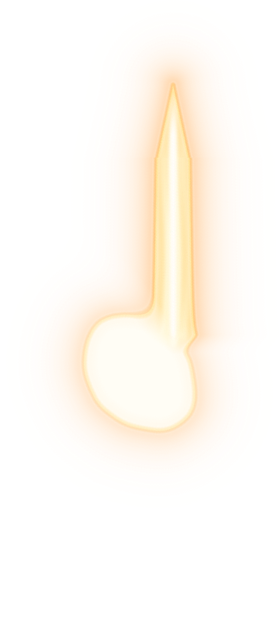
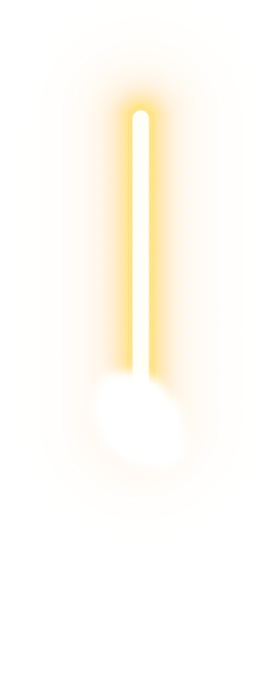
vfx-lab: Thần Thức Trảm — kiếm laser phóng từ giữa nắm tay song song trục cẳng tay; sửa điểm xoay tay bên trái (lật ảnh)
Claude-Session: https://claude.ai/code/session_014A94BHnyL4tu48AS77QbVM

Changed region(s): [[0.2319, 0.0895, 0.7826, 0.7159]]

diff --git a/src/vfx/skillFx.ts b/src/vfx/skillFx.ts
@@ -950,8 +950,9 @@ const nguyenAnh: Fx = (s, aw) => {
  *  (ảnh riêng cùng khung) — dựng đứng, mũi luồng khí ở trên */
 export const QI_ARM = 'vx_qi_arm';
 export const QI_AURA = 'vx_qi_aura';
-const QI_ARM_PIVOT: [number, number] = [0.617, 0.954];                    // khuỷu tay (điểm xoay khi chém)
-const QI_ARM_REACH = 523;                                                  // khuỷu → mũi lưỡi kiếm khí (px ảnh)
+const QI_ARM_PIVOT: [number, number] = [0.626, 0.957];                    // khuỷu tay (điểm xoay khi chém)
+const QI_ARM_REACH = 539;                                                  // khuỷu → mũi kiếm laser (px ảnh)
+const QI_ARM_TIP_OFF = -0.0607;                                           // mũi kiếm lệch so với phương đứng qua khuỷu (rad)
 
 /**
  * THẦN THỨC TRẢM — thần thức hoá thành TAY KHÍ, nắm tay bọc LUỒNG KIẾM KHÍ vuốt nhọn thành lưỡi: hiện ra trên đầu
@@ -976,10 +977,10 @@ const thanThuc: Fx = (s, aw) => {
     const cand = pool.filter((t) => Math.sign(t.x - hero.x || side) === side);
     const t = cand[Math.floor(i / 2)] ?? pool[i % Math.max(1, pool.length)];
     const h0 = home();
-    const arm = sc.add.image(h0.x, h0.y, QI_ARM).setOrigin(QI_ARM_PIVOT[0], QI_ARM_PIVOT[1]).setDepth(21)
+    const arm = sc.add.image(h0.x, h0.y, QI_ARM).setOrigin(side < 0 ? 1 - QI_ARM_PIVOT[0] : QI_ARM_PIVOT[0], QI_ARM_PIVOT[1]).setDepth(21)
       .setScale(SC * 0.5).setAlpha(0).setRotation(tilt).setFlipX(side < 0);
     // luồng kiếm khí: chồng khít lên tay (cộng sáng), chớp nháy + phập phồng như lửa
-    const aura = sc.add.image(h0.x, h0.y, QI_AURA).setOrigin(QI_ARM_PIVOT[0], QI_ARM_PIVOT[1]).setDepth(21.1)
+    const aura = sc.add.image(h0.x, h0.y, QI_AURA).setOrigin(side < 0 ? 1 - QI_ARM_PIVOT[0] : QI_ARM_PIVOT[0], QI_ARM_PIVOT[1]).setDepth(21.1)
       .setBlendMode(Phaser.BlendModes.ADD).setFlipX(side < 0).setAlpha(0);
     const ph = Math.random() * 10;
     const follow = (time: number) => {
@@ -1012,7 +1013,7 @@ const thanThuc: Fx = (s, aw) => {
         const draw = (fade: number) => {
           // vệt chém: MỘT dải trăng khuyết liền (không chia khúc) bám mũi kiếm — mép ngoài sắc, đuôi thon nhọn dần
           g.clear();
-          const a1 = st.r - Math.PI / 2, span = Math.max(0, (st.r - rRaise) * sd) * 0.75, n = 24;
+          const a1 = st.r - Math.PI / 2 + QI_ARM_TIP_OFF * side, span = Math.max(0, (st.r - rRaise) * sd) * 0.75, n = 24;
           if (span < 0.05) return;
           const R = SWORD * 1.02;
           const outer: Phaser.Types.Math.Vector2Like[] = [], inner: Phaser.Types.Math.Vector2Like[] = [];

diff --git a/src/vfxlab/main.ts b/src/vfxlab/main.ts
@@ -39,8 +39,8 @@ class LabScene extends Phaser.Scene {
     for (const [key, f] of [[SHOCK_T3, 'shock_t3'], [SHOCK_T6, 'shock_t6']]) this.load.spritesheet(key, `/vfx/${f}.png?v=1`, { frameWidth: 256, frameHeight: 159 });
     for (const [n, key] of Object.entries(DRAGON_TEX)) for (const sf of ['', '_aw']) this.load.image(key + sf, `/vfx/dragon_${n}${sf}.png?v=4`);
     this.load.image(ORB_BOLT, '/vfx/orb_bolt.png?v=1');
-    this.load.image(QI_ARM, '/vfx/qi_arm.png?v=6');
-    this.load.image(QI_AURA, '/vfx/qi_aura.png?v=5');
+    this.load.image(QI_ARM, '/vfx/qi_arm.png?v=7');
+    this.load.image(QI_AURA, '/vfx/qi_aura.png?v=6');
     this.load.spritesheet(SPIRIT_ORB, '/vfx/spirit_orb.png?v=1', { frameWidth: 96, frameHeight: 96 });
     for (const [n, key] of Object.entries(BURN_TEX)) this.load.spritesheet(key, `/vfx/burn_${n}.png?v=2`, { frameWidth: 256, frameHeight: 201 });
     for (const [n, key] of Object.entries(BURN_TEX)) this.load.spritesheet(key + '_blue', `/vfx/burn_${n}_blue.png?v=1`, { frameWidth: 256, frameHeight: 201 });

diff --git a/tools/art/qi_arm.py b/tools/art/qi_arm.py
@@ -5,9 +5,8 @@ có vòng xuyến) + LƯỠI KIẾM NĂNG LƯỢNG bọc nắm tay, nối dài t
   1) cắt cánh tay trên-phải (nắm đấm + vòng xuyến + cẳng tay) bằng đường viền tay vẽ theo ảnh mẫu; phần dưới khuỷu
      (cánh tay trên) mờ dần → tay khí hiện ra từ hư không
   2) quầng sáng vàng mềm quanh tay (thay quầng đỏ của nền mẫu)
-  3) KIẾM KHÍ BAO BỌC BÀN TAY: lớp khí mỏng ôm sát đường viền nắm đấm (viền sáng, trong để thấy tay), từ mép trên
-     bàn tay mọc ra một lưỡi kiếm thẳng nằm đúng trên trục cẳng tay. Dựng bằng hàm khoảng cách → mép sắc, cân đối.
-     Lớp vẽ: quầng ngoài · thân vàng · viền sáng mảnh · sống kiếm trắng · vân khí chạy dọc
+  3) KIẾM LASER: luồng sáng thẳng đều, mũi tròn, phóng ra từ GIỮA nắm tay song song trục cẳng tay; đoạn trong nắm tay
+     bị tay che (như nắm chuôi). Lõi trắng · thân vàng nhạt · quầng vàng cam.
   4) xoay cả hình cho trục cẳng tay DỰNG ĐỨNG; điểm xoay khi chém = khuỷu tay
   → public/vfx/qi_arm.png, qi_aura.png  (cùng khung để game chồng khít; lớp khí chớp nháy riêng)
 
@@ -32,8 +31,8 @@ ARM = [(22, 21), (30, 17), (40, 17), (50, 23), (55, 32), (57, 37), (66, 38), (76
 ELBOW = (75, 102)                        # khuỷu tay
 FIST_C = (53.6, 41.4)                    # cổ tay (điểm bạn đánh dấu) — trục cẳng tay: khuỷu → điểm này
 FIST = [(22, 21), (30, 17), (40, 17), (50, 23), (55, 32), (57, 38), (52, 45), (40, 47), (30, 44), (23, 36), (21, 28)]  # bàn tay (nắm đấm)
-BLADE_U0 = 21                            # chân lưỡi: khoảng cách (dọc trục, từ FIST_C) tới mép trên nắm đấm
-BLADE_L = 110                            # FIST_C → mũi lưỡi
+FIST_CTR = (38.5, 31)                    # giữa nắm tay (chỗ chuôi kiếm laser)
+BLADE_L = 100                            # giữa nắm tay → mũi lưỡi
 TIP = (FIST_C[0] + (FIST_C[0] - ELBOW[0]) / 64.27 * BLADE_L, FIST_C[1] + (FIST_C[1] - ELBOW[1]) / 64.27 * BLADE_L)  # mũi (trên trục kéo dài)
 
 
@@ -76,52 +75,34 @@ def main():
     armF = Image.fromarray(g.astype(np.uint8), 'RGBA')
     armF.alpha_composite(canvas)
 
-    # --- LƯỠI KIẾM NĂNG LƯỢNG theo trục cẳng tay
+    # --- KIẾM LASER: luồng sáng thẳng, đều, mũi tròn, phóng ra từ GIỮA nắm tay song song trục cẳng tay.
+    #     Lõi trắng đặc · viền vàng · quầng vàng cam toả rộng. Đoạn nằm trong nắm tay bị tay che (ẩn) → như đang nắm chuôi.
     SS = 3                                                                   # siêu mẫu chống răng cưa
     Y, X = np.mgrid[0:CH * SS, 0:CW * SS].astype(float) / SS
-    fcx, fcy = C(*FIST_C)
-    u = (X - fcx) * ux + (Y - fcy) * uy                                      # dọc trục từ tâm nắm đấm, + lên mũi
+    fcx, fcy = C(*FIST_CTR)
+    u = (X - fcx) * ux + (Y - fcy) * uy                                      # dọc trục từ giữa nắm tay, + lên mũi
     v = (X - fcx) * nx + (Y - fcy) * ny                                      # ngang trục
-    L = BLADE_L * UP                                                         # tâm cổ tay → mũi
-    # (a) VỎ KIẾM KHÍ ôm sát bàn tay: khoảng cách tới mặt nạ nắm đấm (bo tròn góc), nở ra 3px
+    L = BLADE_L * UP                                                         # giữa nắm tay → mũi
+    R = 5 * UP                                                               # bán kính lưỡi (lõi + viền)
+    d = np.hypot(v, u - np.clip(u, 0, L)) - R                                # khoảng cách tới thân lưỡi (đầu tròn)
     fmask = Image.new('L', (CW * SS, CH * SS), 0)
     ImageDraw.Draw(fmask).polygon([(C(x, y)[0] * SS, C(x, y)[1] * SS) for x, y in FIST], fill=255)
-    fm = ndimage.gaussian_filter(np.array(fmask).astype(float), 2.5 * UP * SS) > 127
-    dE = (ndimage.distance_transform_edt(~fm) - ndimage.distance_transform_edt(fm)) / SS - 3 * UP
-    # (b) LƯỠI KIẾM thẳng trên trục cẳng tay, mọc ra từ mép trên bàn tay: hai mép song song, vát nhọn 22% cuối,
-    #     loe sáng ở chân; phần dưới chân chìm vào vỏ
-    u0 = BLADE_U0 * UP                                                       # chỗ trục ló ra khỏi mép trên nắm đấm
-    W = 6.5 * UP
-    taper = W * (1 - 0.2 * np.clip((u - u0) / (L * 0.78), 0, 1))
-    hw = np.where(u < L * 0.78, taper, W * 0.8 * np.clip((L - u) / (L * 0.22), 0, 1))
-    hw = hw + 2.5 * UP * np.exp(-np.maximum(u - u0, 0) / (6 * UP))                  # loe sáng ở chân lưỡi
-    dB = np.where(u < L, np.abs(v) - hw, np.hypot(v, u - L)) + np.maximum(u0 + 6 * UP - u, 0) ** 1.5 / (2 * UP) ** 0.5
-    k = 8 * UP                                                               # hợp mượt vỏ + lưỡi
-    hh = np.clip(0.5 + 0.5 * (dE - dB) / k, 0, 1)
-    d = dE * (1 - hh) + dB * hh - k * hh * (1 - hh)
-    aa = 0.9
-    fill = np.clip(0.5 - d / aa, 0, 1)                                       # bên trong (mép sắc)
-    rim = np.exp(-(d / (1.1 * UP)) ** 2)                                     # viền sáng mảnh
-    glowO = np.exp(-np.maximum(d, 0) / (6 * UP)) * (d > 0)                   # quầng ngoài
-    inner = np.clip(-d / W, 0, 1)                                            # 0 ở mép → 1 ở sống kiếm
-    # thân: lưỡi đặc; vỏ quanh bàn tay chỉ là lớp khí mỏng + viền sáng (thấy rõ tay bên trong)
-    solid = hh ** 1.5
-    bodyA = fill * (0.16 + 0.66 * solid) * (0.75 + 0.25 * inner)
-    core = np.exp(-(v / (1.4 * UP)) ** 2) * np.clip((u - u0 + 4 * UP) / (10 * UP), 0, 1) * np.clip((L * 0.97 - u) / (L * 0.12), 0, 1) * solid
-    vein = (0.5 + 0.5 * np.sin(v / (1.8 * UP) * np.pi + np.sin(u / (11 * UP)) * 1.5)) * 0.22 * solid
-    A = np.clip(np.maximum.reduce([bodyA, rim * (0.6 + 0.35 * solid), glowO * (0.3 + 0.15 * solid), core]), 0, 1)
-    c_out = np.array([255, 150, 40.]); c_body = np.array([255, 200, 85.]); c_hot = np.array([255, 242, 190.])
-    tt = np.clip(inner * 1.3 + vein, 0, 1)[..., None]
-    col = c_body * (1 - tt) + c_hot * tt
-    col = np.where((d > 0)[..., None], c_out, col)
-    col = col * (1 - rim[..., None] * 0.6) + c_hot * rim[..., None] * 0.6
-    col = col * (1 - core[..., None]) + np.array([255, 255, 250.]) * core[..., None]
+    hide = 1 - ndimage.gaussian_filter(np.array(fmask).astype(float) / 255, 1.5 * UP * SS)   # tay che chuôi
+    coreA = np.clip(0.5 - (d + R * 0.45) / 0.9, 0, 1)                        # lõi trắng (hẹp hơn thân)
+    bodyA = np.clip(0.5 - d / 0.9, 0, 1)                                     # thân (mép sắc)
+    glowA = np.exp(-np.maximum(d, 0) / (3.5 * UP)) * 0.85                    # quầng sát
+    hazeA = np.exp(-np.maximum(d, 0) / (8 * UP)) * 0.3                       # quầng toả rộng
+    A = np.clip(np.maximum.reduce([bodyA, glowA, hazeA]), 0, 1) * hide
+    c_core = np.array([255, 255, 248.]); c_body = np.array([255, 228, 140.]); c_glow = np.array([255, 170, 40.])
+    t = np.clip(d / (6 * UP), 0, 1)[..., None]
+    col = c_glow * t + c_body * (1 - t)
+    col = col * (1 - coreA[..., None]) + c_core * coreA[..., None]
     auraI = Image.fromarray(np.dstack([np.clip(col, 0, 255), A * 255]).astype(np.uint8), 'RGBA').resize((CW, CH), Image.LANCZOS)
 
     # đánh dấu khuỷu + mũi bằng 2 điểm phụ (để đo lại sau khi xoay), rồi xoay cho trục dựng đứng
     mk = Image.new('L', (CW, CH), 0)
     md = ImageDraw.Draw(mk)
-    for (px, py), val in ((C(*ELBOW), 255), (C(*TIP), 128)):
+    for (px, py), val in ((C(*ELBOW), 255), (C(FIST_CTR[0] + ux * BLADE_L, FIST_CTR[1] + uy * BLADE_L), 128)):
         md.ellipse([px - 3, py - 3, px + 3, py + 3], fill=val)
     ang = np.degrees(np.arctan2(ux, -uy))                                    # độ nghiêng trục so với phương đứng
     armF = armF.rotate(ang, resample=Image.BICUBIC, expand=True)
@@ -137,7 +118,7 @@ def main():
     armF.save(os.path.join(VFX, 'qi_arm.png'))
     auraI.save(os.path.join(VFX, 'qi_aura.png'))
     print('qi_arm', armF.size, 'tilt', round(ang, 1), 'pivot(khuỷu)', round(ex / armF.width, 3), round(ey / armF.height, 3),
-          'mũi', round(tx, 1), round(ty, 1), 'reach', round(ey - ty))
+          'mũi', round(tx, 1), round(ty, 1), 'reach', round(float(np.hypot(ex - tx, ey - ty))), 'lệch góc', round(float(np.degrees(np.arctan2(tx - ex, ey - ty))), 2))
 
     ca = np.array(armF).astype(float); cb = np.array(auraI).astype(float)
     bg = np.full(ca.shape[:2] + (3,), (26, 24, 40.))
